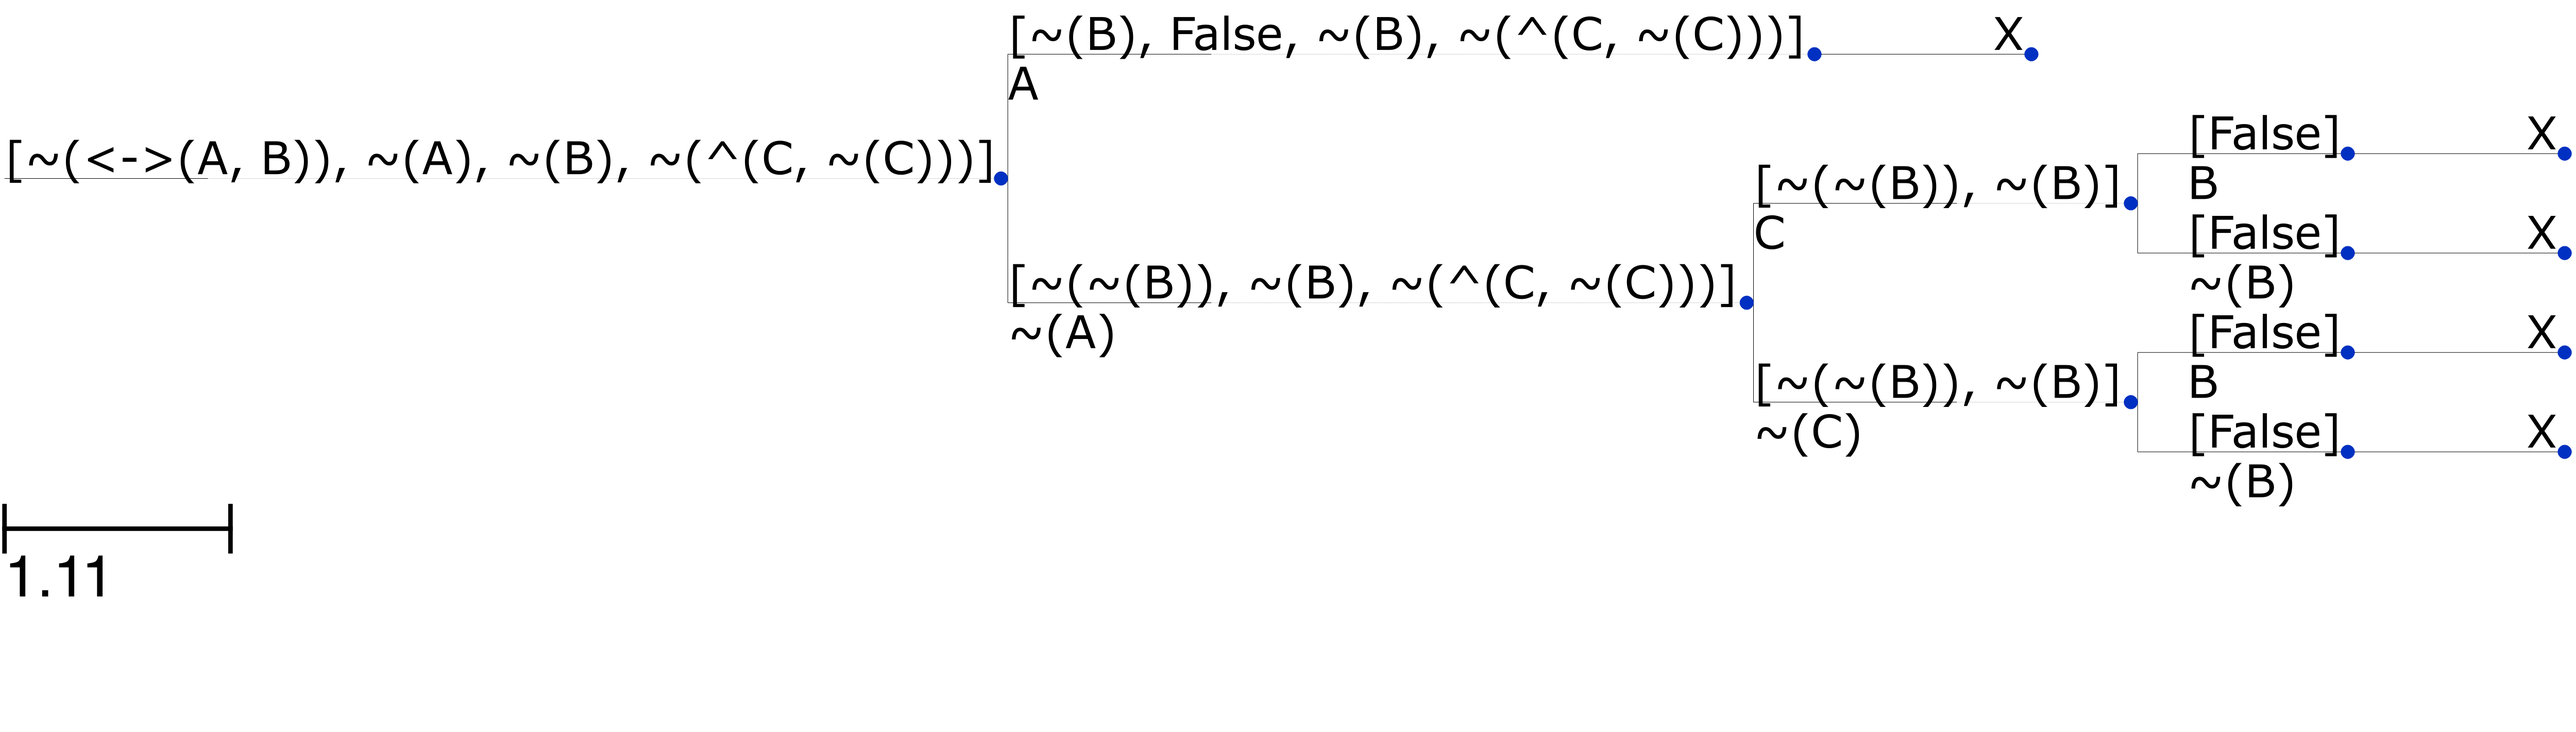
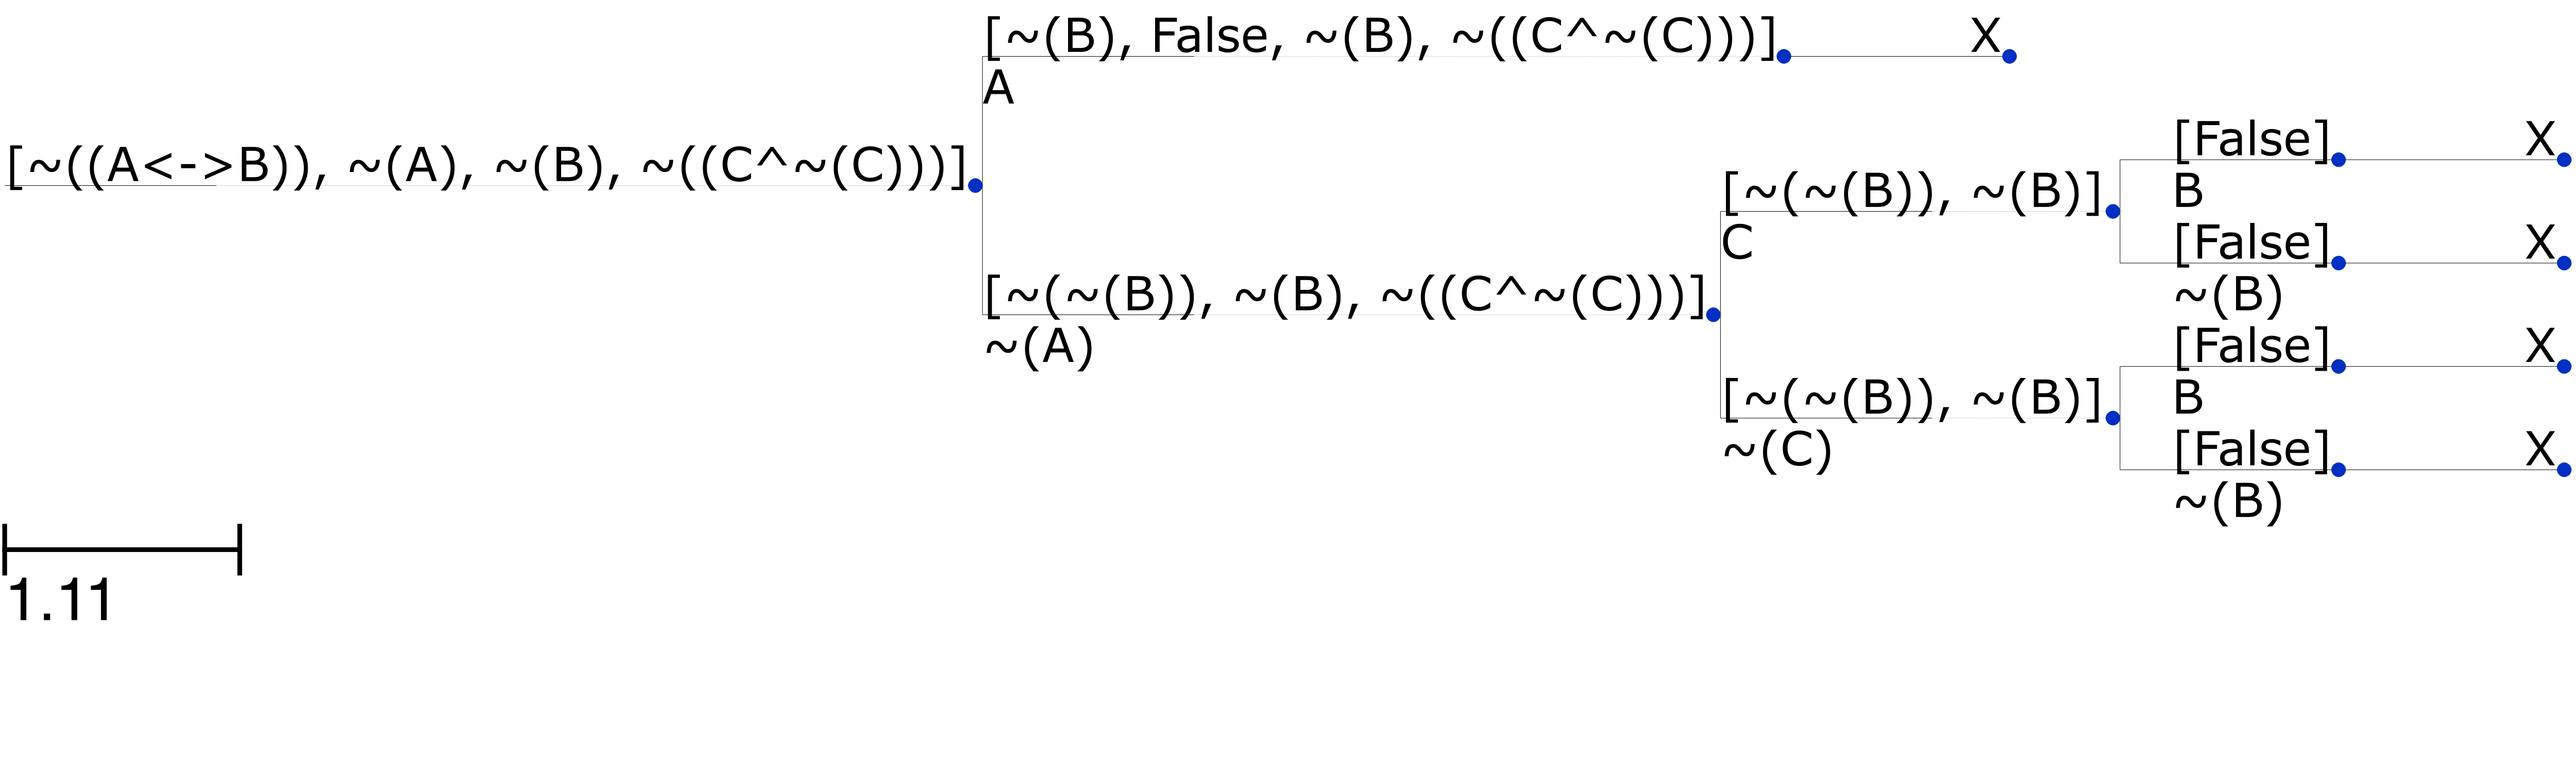
updated how statements are printed

diff --git a/davisputnam/tests/test_parse.py b/davisputnam/tests/test_parse.py
@@ -35,32 +35,32 @@ class TestParsing(unittest.TestCase):
         self.assertEqual(statement.type, "v")
         self.assertEqual(statement.value1().type, "lit")
         self.assertEqual(statement.value2().type, "lit")
-        self.assertEqual(statement.__str__(), "v(A, B)")
+        self.assertEqual(statement.__str__(), "(AvB)")
 
         statement = parse("Av(BvC)")
         self.assertIsNotNone(statement)
         self.assertEqual(statement.type, "v")
         self.assertEqual(statement.value1().type, "lit")
         self.assertEqual(statement.value2().type, "v")
-        self.assertEqual(statement.__str__(), "v(A, v(B, C))")
+        self.assertEqual(statement.__str__(), "(Av(BvC))")
 
         statement = parse("(AvB)vC")
         self.assertIsNotNone(statement)
         self.assertEqual(statement.type, "v")
         self.assertEqual(statement.value1().type, "v")
         self.assertEqual(statement.value2().type, "lit")
-        self.assertEqual(statement.__str__(), "v(v(A, B), C)")
+        self.assertEqual(statement.__str__(), "((AvB)vC)")
 
         statement = parse("(AvB)v(CvD)")
         self.assertIsNotNone(statement)
         self.assertEqual(statement.type, "v")
         self.assertEqual(statement.value1().type, "v")
         self.assertEqual(statement.value2().type, "v")
-        self.assertEqual(statement.__str__(), "v(v(A, B), v(C, D))")
+        self.assertEqual(statement.__str__(), "((AvB)v(CvD))")
 
         statement = parse("Av(Bv(CvD))")
         self.assertIsNotNone(statement)
-        self.assertEqual(statement.__str__(), "v(A, v(B, v(C, D)))")
+        self.assertEqual(statement.__str__(), "(Av(Bv(CvD)))")
 
     def test_conjunction(self):
         statement = parse("A^B")
@@ -68,32 +68,32 @@ class TestParsing(unittest.TestCase):
         self.assertEqual(statement.type, "^")
         self.assertEqual(statement.value1().type, "lit")
         self.assertEqual(statement.value2().type, "lit")
-        self.assertEqual(statement.__str__(), "^(A, B)")
+        self.assertEqual(statement.__str__(), "(A^B)")
 
         statement = parse("A^(B^C)")
         self.assertIsNotNone(statement)
         self.assertEqual(statement.type, "^")
         self.assertEqual(statement.value1().type, "lit")
         self.assertEqual(statement.value2().type, "^")
-        self.assertEqual(statement.__str__(), "^(A, ^(B, C))")
+        self.assertEqual(statement.__str__(), "(A^(B^C))")
 
         statement = parse("(A^B)^C")
         self.assertIsNotNone(statement)
         self.assertEqual(statement.type, "^")
         self.assertEqual(statement.value1().type, "^")
         self.assertEqual(statement.value2().type, "lit")
-        self.assertEqual(statement.__str__(), "^(^(A, B), C)")
+        self.assertEqual(statement.__str__(), "((A^B)^C)")
 
         statement = parse("(A^B)^(C^D)")
         self.assertIsNotNone(statement)
         self.assertEqual(statement.type, "^")
         self.assertEqual(statement.value1().type, "^")
         self.assertEqual(statement.value2().type, "^")
-        self.assertEqual(statement.__str__(), "^(^(A, B), ^(C, D))")
+        self.assertEqual(statement.__str__(), "((A^B)^(C^D))")
 
         statement = parse("A^(B^(C^D))")
         self.assertIsNotNone(statement)
-        self.assertEqual(statement.__str__(), "^(A, ^(B, ^(C, D)))")
+        self.assertEqual(statement.__str__(), "(A^(B^(C^D)))")
 
     def test_implication(self):
         statement = parse("A->B")
@@ -101,32 +101,32 @@ class TestParsing(unittest.TestCase):
         self.assertEqual(statement.type, "->")
         self.assertEqual(statement.value1().type, "lit")
         self.assertEqual(statement.value2().type, "lit")
-        self.assertEqual(statement.__str__(), "->(A, B)")
+        self.assertEqual(statement.__str__(), "(A->B)")
 
         statement = parse("A->(B->C)")
         self.assertIsNotNone(statement)
         self.assertEqual(statement.type, "->")
         self.assertEqual(statement.value1().type, "lit")
         self.assertEqual(statement.value2().type, "->")
-        self.assertEqual(statement.__str__(), "->(A, ->(B, C))")
+        self.assertEqual(statement.__str__(), "(A->(B->C))")
 
         statement = parse("(A->B)->C")
         self.assertIsNotNone(statement)
         self.assertEqual(statement.type, "->")
         self.assertEqual(statement.value1().type, "->")
         self.assertEqual(statement.value2().type, "lit")
-        self.assertEqual(statement.__str__(), "->(->(A, B), C)")
+        self.assertEqual(statement.__str__(), "((A->B)->C)")
 
         statement = parse("(A->B)->(C->D)")
         self.assertIsNotNone(statement)
         self.assertEqual(statement.type, "->")
         self.assertEqual(statement.value1().type, "->")
         self.assertEqual(statement.value2().type, "->")
-        self.assertEqual(statement.__str__(), "->(->(A, B), ->(C, D))")
+        self.assertEqual(statement.__str__(), "((A->B)->(C->D))")
 
         statement = parse("A->(B->(C->D))")
         self.assertIsNotNone(statement)
-        self.assertEqual(statement.__str__(), "->(A, ->(B, ->(C, D)))")
+        self.assertEqual(statement.__str__(), "(A->(B->(C->D)))")
 
     def test_biconditional(self):
         statement = parse("A<->B")
@@ -134,32 +134,32 @@ class TestParsing(unittest.TestCase):
         self.assertEqual(statement.type, "<->")
         self.assertEqual(statement.value1().type, "lit")
         self.assertEqual(statement.value2().type, "lit")
-        self.assertEqual(statement.__str__(), "<->(A, B)")
+        self.assertEqual(statement.__str__(), "(A<->B)")
 
         statement = parse("A<->(B<->C)")
         self.assertIsNotNone(statement)
         self.assertEqual(statement.type, "<->")
         self.assertEqual(statement.value1().type, "lit")
         self.assertEqual(statement.value2().type, "<->")
-        self.assertEqual(statement.__str__(), "<->(A, <->(B, C))")
+        self.assertEqual(statement.__str__(), "(A<->(B<->C))")
 
         statement = parse("(A<->B)<->C")
         self.assertIsNotNone(statement)
         self.assertEqual(statement.type, "<->")
         self.assertEqual(statement.value1().type, "<->")
         self.assertEqual(statement.value2().type, "lit")
-        self.assertEqual(statement.__str__(), "<->(<->(A, B), C)")
+        self.assertEqual(statement.__str__(), "((A<->B)<->C)")
 
         statement = parse("(A<->B)<->(C<->D)")
         self.assertIsNotNone(statement)
         self.assertEqual(statement.type, "<->")
         self.assertEqual(statement.value1().type, "<->")
         self.assertEqual(statement.value2().type, "<->")
-        self.assertEqual(statement.__str__(), "<->(<->(A, B), <->(C, D))")
+        self.assertEqual(statement.__str__(), "((A<->B)<->(C<->D))")
 
         statement = parse("A<->(B<->(C<->D))")
         self.assertIsNotNone(statement)
-        self.assertEqual(statement.__str__(), "<->(A, <->(B, <->(C, D)))")
+        self.assertEqual(statement.__str__(), "(A<->(B<->(C<->D)))")
 
     def test_mixed(self):
         statement = parse("Av(B^C)")

diff --git a/davisputnam/tests/test_statement.py b/davisputnam/tests/test_statement.py
@@ -10,19 +10,19 @@ class TestStatement(unittest.TestCase):
 
     def test_negation(self):
         self.assertEqual(Statement("~", "A").__str__(), "~(A)")
-        self.assertEqual(Statement("~", "v(A, B)").__str__(), "~(v(A, B))")
+        self.assertEqual(Statement("~", "AvB").__str__(), "~(AvB)")
 
     def test_disjunction(self):
-        self.assertEqual(Statement("v", "A", "B").__str__(), "v(A, B)")
+        self.assertEqual(Statement("v", "A", "B").__str__(), "(AvB)")
 
     def test_conjunction(self):
-        self.assertEqual(Statement("^", "A", "B").__str__(), "^(A, B)")
+        self.assertEqual(Statement("^", "A", "B").__str__(), "(A^B)")
 
     def test_implication(self):
-        self.assertEqual(Statement("->", "A", "B").__str__(), "->(A, B)")
+        self.assertEqual(Statement("->", "A", "B").__str__(), "(A->B)")
 
     def test_biconditional(self):
-        self.assertEqual(Statement("<->", "A", "B").__str__(), "<->(A, B)")
+        self.assertEqual(Statement("<->", "A", "B").__str__(), "(A<->B)")
 
     def test_contains(self):
         self.assertEqual(parse("A").contains(), ["A"])

diff --git a/davisputnam/statement.py b/davisputnam/statement.py
@@ -15,7 +15,7 @@ class Statement:
         elif self.type == "~":
             return "~(%s)" % self.value1()
         else:
-            return "%s(%s, %s)" % (self.type, self.value1(), self.value2())
+            return "(%s%s%s)" % (self.value1(), self.type, self.value2())
 
     # for print / outputing the statement
     def __repr__(self):
